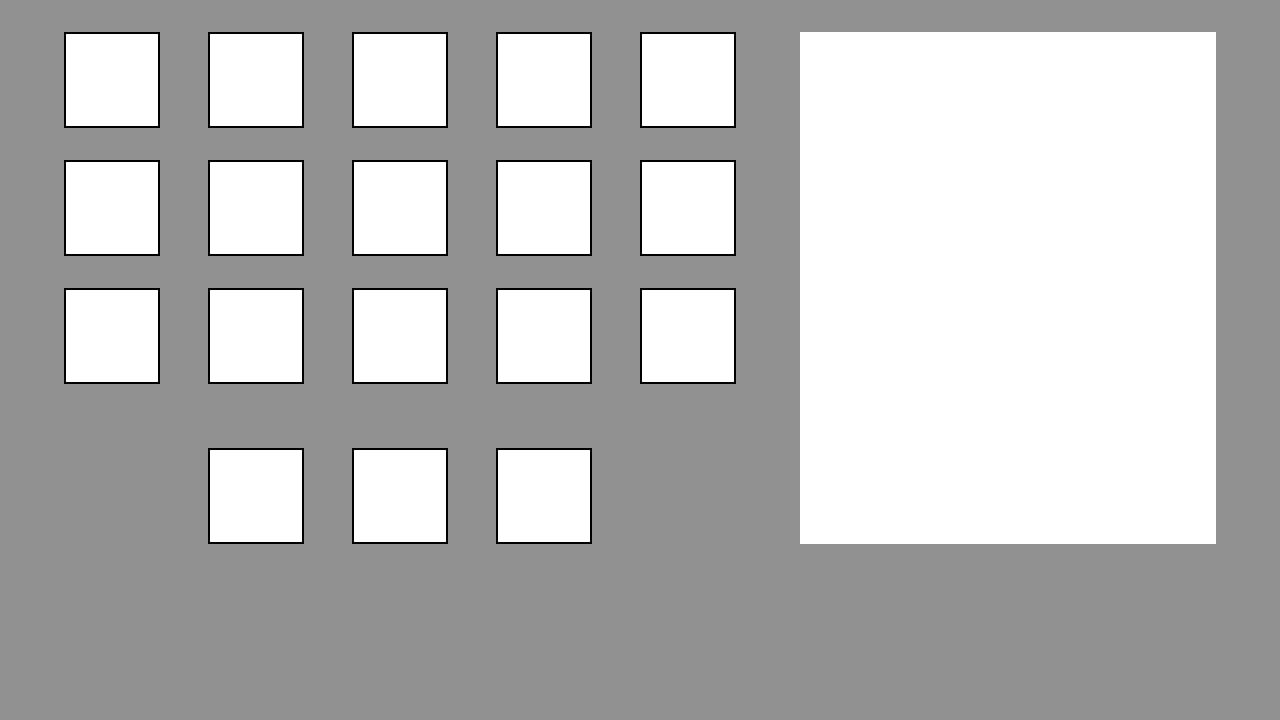
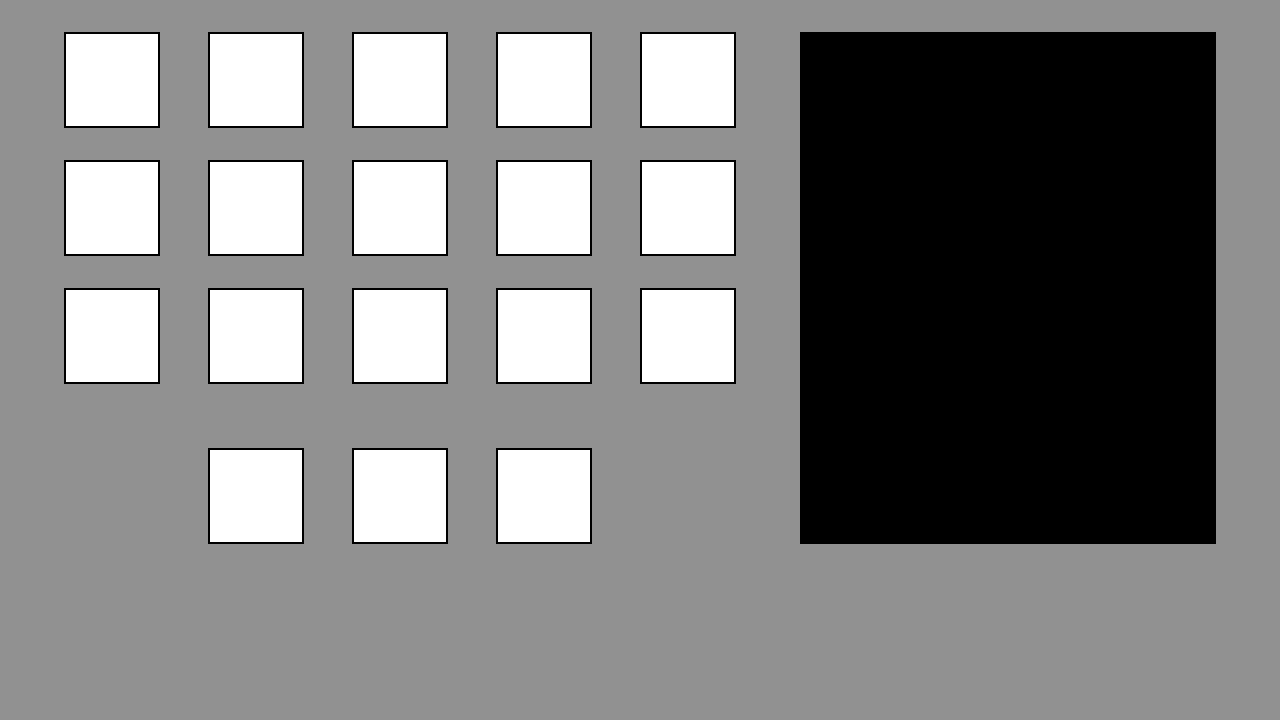
Adds aesthetics to the game

Changed region(s): [[0.625, 0.0306, 0.9688, 0.7639]]

diff --git a/core/src/com/systemphoenix/edenalpha/Scenes/GameHud.java b/core/src/com/systemphoenix/edenalpha/Scenes/GameHud.java
@@ -2,14 +2,17 @@ package com.systemphoenix.edenalpha.Scenes;
 
 import com.badlogic.gdx.Gdx;
 import com.badlogic.gdx.graphics.Color;
+import com.badlogic.gdx.graphics.OrthographicCamera;
 import com.badlogic.gdx.graphics.Texture;
 import com.badlogic.gdx.graphics.g2d.Batch;
 import com.badlogic.gdx.graphics.g2d.BitmapFont;
 import com.badlogic.gdx.graphics.g2d.Sprite;
 import com.badlogic.gdx.graphics.g2d.freetype.FreeTypeFontGenerator;
+import com.badlogic.gdx.scenes.scene2d.Stage;
 import com.badlogic.gdx.scenes.scene2d.ui.Label;
 import com.badlogic.gdx.scenes.scene2d.ui.Table;
 import com.badlogic.gdx.utils.Disposable;
+import com.badlogic.gdx.utils.viewport.FitViewport;
 import com.systemphoenix.edenalpha.Actors.Plant;
 import com.systemphoenix.edenalpha.Codex.ButtonCodex;
 import com.systemphoenix.edenalpha.Codex.PlantCodex;
@@ -19,20 +22,24 @@ import com.systemphoenix.edenalpha.Screens.GameScreen;
 public class GameHud extends AbsoluteHud implements Disposable {
 
     private GameScreen gameScreen;
+    private Stage plantStage;
     
     private PlantSelector plantSelector;
     private PlantActor[] plantActors;
 
-    private ButtonActor checkButton;
+    private ButtonActor checkButton, crossButton;
 
     private boolean canDraw, canDrawCheck;
-    private int index;
+    private int index, drawable = 0;
 
     private Label plantName, plantType, plantCost, plantGrowthTime;
     private Sprite plantHP, plantAS, plantDmg, rectSprite;
 
     public GameHud(EdenAlpha game, GameScreen gameScreen, PlantActor[] plantActors) {
         super(game);
+
+        viewport = new FitViewport(worldWidth, worldHeight, new OrthographicCamera());
+        plantStage = new Stage(viewport, gameGraphics);
         
         this.gameScreen = gameScreen;
         this.plantActors = plantActors;
@@ -71,7 +78,7 @@ public class GameHud extends AbsoluteHud implements Disposable {
         FreeTypeFontGenerator.FreeTypeFontParameter parameter = new FreeTypeFontGenerator.FreeTypeFontParameter();
         parameter.size = 14;
         parameter.borderColor = border;
-        parameter.borderWidth = 1;
+        parameter.borderWidth = 0;
         font = generator.generateFont(parameter);
 
         tempTable.top().padTop(15);
@@ -148,12 +155,20 @@ public class GameHud extends AbsoluteHud implements Disposable {
 
     public void draw(Batch batch) {
         if(canDraw) {
-            batch.begin();
-            plantHP.draw(batch);
-            plantDmg.draw(batch);
-            plantAS.draw(batch);
-            batch.end();
-            stage.draw();
+            switch(drawable) {
+                case 0:
+                    batch.setProjectionMatrix(plantStage.getCamera().combined);
+                    plantStage.draw();
+                    break;
+                default:
+                    batch.setProjectionMatrix(stage.getCamera().combined);
+                    stage.draw();
+                    batch.begin();
+                    plantHP.draw(batch);
+                    plantDmg.draw(batch);
+                    plantAS.draw(batch);
+                    batch.end();
+            }
         }
     }
 
@@ -211,6 +226,7 @@ public class GameHud extends AbsoluteHud implements Disposable {
         plantSelector.setCanDraw(canDraw);
         if(canDrawCheck) {
             checkButton.setCanDraw(canDraw);
+            crossButton.setCanDraw(canDraw);
             Plant.setSelectAllPlants(canDraw);
         }
     }
@@ -218,11 +234,19 @@ public class GameHud extends AbsoluteHud implements Disposable {
     public void setCanDraw() {
         canDrawCheck = true;
     }
+
+    public void setDrawable(int drawable) {
+        this.drawable = drawable;
+    }
     
     public void setCheckButtonCanDraw(boolean canDraw) {
         if(checkButton == null) {
             checkButton = new ButtonActor(ButtonCodex.CHECK, gameScreen, stage, gameScreen.getWorldWidth() - 160, 32, 128);
+            crossButton = new ButtonActor(ButtonCodex.CROSS, gameScreen, plantStage, 32, 32, 128);
+            plantStage.addActor(crossButton);
+            crossButton.setCanDraw(canDraw);
             stage.addActor(checkButton);
+            gameScreen.addProcessor(crossButton);
             gameScreen.addProcessor(checkButton);
         }
         this.checkButton.setCanDraw(canDraw);

diff --git a/core/src/com/systemphoenix/edenalpha/Screens/GameScreen.java b/core/src/com/systemphoenix/edenalpha/Screens/GameScreen.java
@@ -68,7 +68,7 @@ public class GameScreen extends AbsoluteScreen {
     private Array<Plant> plants;
     private Array<InputProcessor> inputProcessors;
 
-    private PlantSquare[][] plantSquares;
+    private PlantSquare[][] plantSquares, subSquares;
     private float pastZoomDistance, plantSquareSize, accumulator, seeds = 50, seedRate = 0.25f;
     private int enemyLimit = 10, waveIndex = -1, waveLimit = 10, selectedX = -1, selectedY = -1, displaySquare = -3, pseudoPlantIndex = -1;
     private long timer = 0, newWaveCountdown, timeGap, displaySquareTimer, seedTimer;
@@ -164,10 +164,12 @@ public class GameScreen extends AbsoluteScreen {
         debugRenderer = new Box2DDebugRenderer();
 
         plantSquares = new PlantSquare[region.getArraySizeY()][region.getArraySizeX()];
+        subSquares = new PlantSquare[region.getArraySizeY()][region.getArraySizeX()];
         directionSquares = new boolean[region.getArraySizeY()][region.getArraySizeX()];
         for(int i = 0; i < region.getArraySizeY(); i++) {
             for(int j = 0; j < region.getArraySizeX(); j++) {
                 plantSquares[i][j] = null;
+                subSquares[i][j] = null;
                 directionSquares[i][j] = false;
             }
         }
@@ -416,7 +418,6 @@ public class GameScreen extends AbsoluteScreen {
                 Gdx.app.log("Verbose", "Error rendering top hud: " + e.getMessage());
             }
             try {
-                gameGraphics.setProjectionMatrix(gameHud.getStage().getCamera().combined);
                 gameHud.draw(gameGraphics);
             } catch (Exception e) {
                 Gdx.app.log("Verbose", "Error rendering game hud: " + e.getMessage());
@@ -474,8 +475,31 @@ public class GameScreen extends AbsoluteScreen {
             plants.add(new Plant(this, gameStage, sprite, plantIndex, selectedX * 32f, selectedY * 32f));
             inputProcessors.insert(inputProcessors.size - 1, plants.peek());
             updateSeedRate();
+
+            for(int i = selectedY - 1; i <= selectedY + 1; i++) {
+                for(int j = selectedX - 1; j <= selectedX + 1; j++) {
+                    subSquares[i][j] = plantSquares[i][j];
+                    plantSquares[i][j] = null;
+                }
+            }
+
             resetHud();
         }
+    }
+
+    public void unroot(Plant plant) {
+        plants.removeValue(plant, true);
+        int x = (int)plant.getX() / 32, y = (int)plant.getY() / 32;
+        for(int i = y - 1; i <= y + 1; i++) {
+            for(int j = x - 1; j <= x + 1; j++) {
+                plantSquares[i][j] = subSquares[i][j];
+                subSquares[i][j] = null;
+            }
+        }
+        plant.remove();
+        plant.dispose();
+        updateSeedRate();
+        resetHud();
     }
 
     public void resetHud() {
@@ -515,7 +539,7 @@ public class GameScreen extends AbsoluteScreen {
                     } else {
                         resetHud();
                     }
-
+                    gameHud.setDrawable(-1);
                     Plant.nullSelectedPlant();
             }
         } else if(paused) {

diff --git a/core/src/com/systemphoenix/edenalpha/Scenes/ButtonActor.java b/core/src/com/systemphoenix/edenalpha/Scenes/ButtonActor.java
@@ -57,7 +57,7 @@ public class ButtonActor extends Actor implements InputProcessor, Disposable {
     @Override
     public boolean touchDown(int screenX, int screenY, int pointer, int button) {
         if((pastScreenX == -1 && pastScreenY == -1) || !(pastScreenX == screenX && pastScreenY == screenY)) {
-            coord = gameScreen.getGameHud().getStage().screenToStageCoordinates(new Vector2((float)screenX, (float)screenY));
+            coord = stage.screenToStageCoordinates(new Vector2((float)screenX, (float)screenY));
             pastScreenX = screenX;
             pastScreenY = screenY;
         }
@@ -83,6 +83,9 @@ public class ButtonActor extends Actor implements InputProcessor, Disposable {
                     Plant.setSelectAllPlants(false);
                     Gdx.app.log("Verbose", "Hit: CheckButton!");
                     break;
+                case ButtonCodex.CROSS:
+                    gameScreen.unroot(Plant.getSelectedPlant());
+                    break;
             }
             return true;
         }
@@ -97,16 +100,12 @@ public class ButtonActor extends Actor implements InputProcessor, Disposable {
     @Override
     public boolean touchDragged(int screenX, int screenY, int pointer) {
         if((pastScreenX == -1 && pastScreenY == -1) || !(pastScreenX == screenX && pastScreenY == screenY)) {
-            coord = gameScreen.getGameHud().getStage().screenToStageCoordinates(new Vector2((float)screenX, (float)screenY));
+            coord = stage.screenToStageCoordinates(new Vector2((float)screenX, (float)screenY));
             pastScreenX = screenX;
             pastScreenY = screenY;
         }
-        Actor hitActor = gameScreen.getGameHud().getStage().hit(coord.x, coord.y, true);
-
-        if(hitActor == this) {
-            return true;
-        }
-        return false;
+        Actor hitActor = stage.hit(coord.x, coord.y, true);
+        return hitActor == this;
     }
 
     @Override

diff --git a/core/src/com/systemphoenix/edenalpha/Actors/Plant.java b/core/src/com/systemphoenix/edenalpha/Actors/Plant.java
@@ -295,6 +295,9 @@ public class Plant extends Actor implements InputProcessor, Disposable {
                 selectedPlant = this;
             }
             gameScreen.resetHud();
+            gameScreen.getGameHud().setDrawable(0);
+            gameScreen.getGameHud().setCanDraw(true);
+            selectAllPlants = false;
             return true;
         }
         return false;
@@ -332,6 +335,29 @@ public class Plant extends Actor implements InputProcessor, Disposable {
         rangeSprite.getTexture().dispose();
         effectiveRangeSprite.getTexture().dispose();
         gameScreen.getWorld().destroyBody(body);
+
+        redLifeBar.getTexture().dispose();
+        greenLifeBar.getTexture().dispose();
+
+        for(int i = 0; i < bullets.size; i++) {
+            bullets.get(i).dispose();
+            bullets.removeIndex(i);
+        }
+
+        for(int i = 0; i < pulses.size; i++) {
+            pulses.get(i).dispose();
+            pulses.removeIndex(i);
+        }
+
+        for(int i = 0; i < slashes.size; i++) {
+            slashes.get(i).dispose();
+            slashes.removeIndex(i);
+        }
+
+        for(int i = 0; i < roots.size; i++) {
+            roots.get(i).dispose();
+            roots.removeIndex(i);
+        }
     }
 
     public static void nullSelectedPlant() {
@@ -355,5 +381,9 @@ public class Plant extends Actor implements InputProcessor, Disposable {
 
     public void setHasTarget(boolean hasTarget) {
         this.hasTarget = hasTarget;
+    }
+
+    public static Plant getSelectedPlant() {
+        return selectedPlant;
     }
 }

diff --git a/core/src/com/systemphoenix/edenalpha/Scenes/PlantSelector.java b/core/src/com/systemphoenix/edenalpha/Scenes/PlantSelector.java
@@ -9,12 +9,13 @@ import com.badlogic.gdx.utils.Disposable;
 
 public class PlantSelector extends Actor implements Disposable {
 
-    private Sprite sprite;
+    private Sprite sprite, exSprite;
     private boolean canDraw = false;
 
     private PlantActor[] plantActors;
 
     public PlantSelector(PlantActor[] plantActors) {
+        exSprite = new Sprite(new Texture(Gdx.files.internal("misc/lowerHudData.png")));
         sprite = new Sprite(new Texture(Gdx.files.internal("misc/lowerHud.png")));
         this.plantActors = plantActors;
     }
@@ -23,6 +24,7 @@ public class PlantSelector extends Actor implements Disposable {
     public void draw(Batch batch, float alpha) {
         if(canDraw) {
             batch.draw(sprite, 0f, 32f);
+            batch.draw(exSprite, 0f, 32f);
         }
     }
 
@@ -32,6 +34,7 @@ public class PlantSelector extends Actor implements Disposable {
         for(int i = 0; i < plantActors.length; i++) {
             plantActors[i].dispose();
         }
+        exSprite.getTexture().dispose();
     }
 
     public void setCanDraw(boolean canDraw) {

diff --git a/core/src/com/systemphoenix/edenalpha/Codex/ButtonCodex.java b/core/src/com/systemphoenix/edenalpha/Codex/ButtonCodex.java
@@ -2,7 +2,7 @@ package com.systemphoenix.edenalpha.Codex;
 
 public class ButtonCodex {
 
-    public static final int PAUSE = 0, PLAY = 1, FAST_FORWARD = 2, RESTART = 3, HOME = 4, CHECK = 5;
+    public static final int PAUSE = 0, PLAY = 1, FAST_FORWARD = 2, RESTART = 3, HOME = 4, CHECK = 5, CROSS = 6;
 
     public static final String[] fileNames = {
             "pauseButton.png",
@@ -10,7 +10,8 @@ public class ButtonCodex {
             "fastForwardButton.png",
             "restartButton.png",
             "homeButton.png",
-            "checkButton.png"
+            "checkButton.png",
+            "xButton.png"
     };
 
 

diff --git a/core/src/com/systemphoenix/edenalpha/Screens/PlantScreen.java b/core/src/com/systemphoenix/edenalpha/Screens/PlantScreen.java
@@ -149,7 +149,7 @@ public class PlantScreen extends AbsoluteScreen {
         FreeTypeFontGenerator.FreeTypeFontParameter parameter = new FreeTypeFontGenerator.FreeTypeFontParameter();
         parameter.size = 14;
         parameter.borderColor = border;
-        parameter.borderWidth = 1;
+        parameter.borderWidth = 0;
         font = generator.generateFont(parameter);
 
         tempTable.top().padTop(15);
